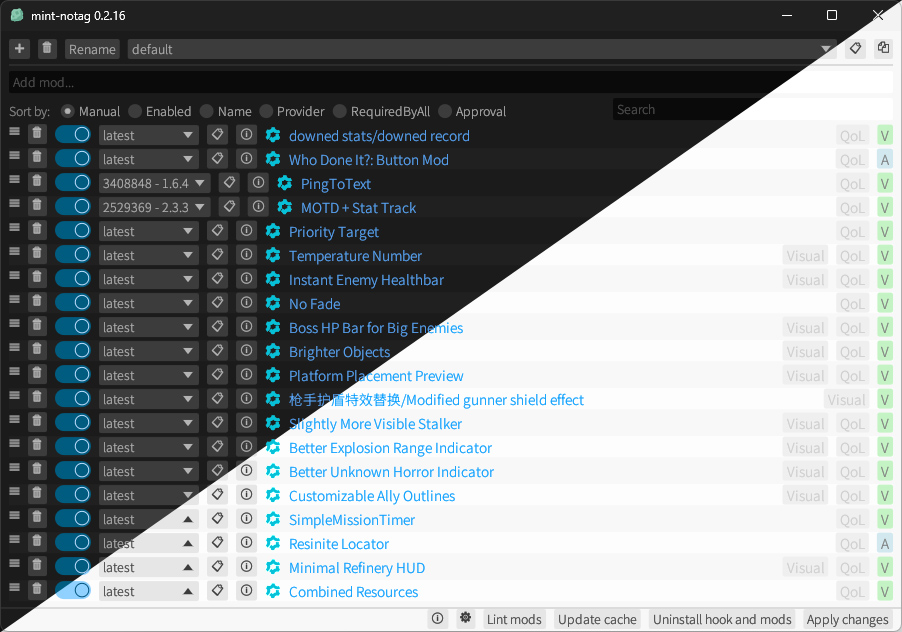
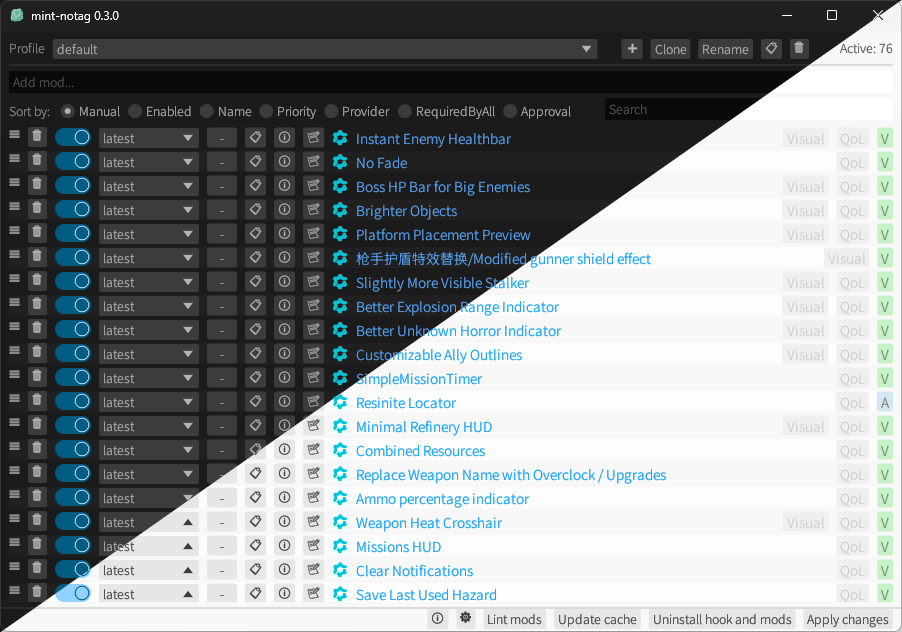
Update Readme
0.3.0 changes

diff --git a/.github/README.md b/.github/README.md
@@ -19,13 +19,18 @@ This a fork of mint with some modifications.
 Changes or merges since [upstream/master @ 940e7aa](https://github.com/trumank/mint/tree/940e7aaf960dc4280fc0442a6c7f87afec440c0c):
 
 - Omitted the `[MODDED]` prefix from the public server name
+- Load priority
+  - In case of asset conflict, mods with higher priority take precedence
 - Changed app title to `mint-notag` from `mint`
-- Confirmation dialog when deleting a mod
+- Confirmation dialog when deleting a mod or profile
 - Sorting options for mods
 - Search bar always visible
 - Time since last action
 - Detailed mod info view
   - Click the info button beside the mod name to see the its description, changelog and download the latest pak
+- Note taking feature
+  - Click the note button beside the mod name to add a comment
+  - An excerpt of the note will be shown next to the mod name
 - App [icon](../assets/icon.ico) in the title bar, taskbar and Windows executable
 - Bigger window size
 - Centered main window at launch
@@ -62,7 +67,7 @@ To launch the program on Linux distros, use the following commands:
 
 ```sh
 export LD_LIBRARY_PATH=~/opt/lib:$LD_LIBRARY_PATH
-env -u WAYLAND_DISPLAY ./drg_mod_integration
+env -u WAYLAND_DISPLAY ./mint
 
 # Credits to https://github.com/trumank/mint/issues/299#issuecomment-3401198284
 ```
